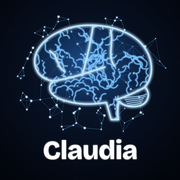
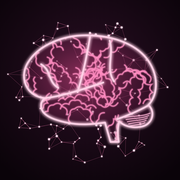
Temporizador de estudio (Pomodoro) e icono de cerebro rosa
Claude-Session: https://claude.ai/code/session_01CUUc1FXT7RVjJewpAbfE9Q

diff --git a/index.html b/index.html
@@ -7,9 +7,9 @@
 <meta name="mobile-web-app-capable" content="yes">
 <meta name="apple-mobile-web-app-status-bar-style" content="black-translucent">
 <meta name="apple-mobile-web-app-title" content="Sinapsis">
-<meta name="theme-color" content="#ECEEF3" media="(prefers-color-scheme: light)">
-<meta name="theme-color" content="#11131A" media="(prefers-color-scheme: dark)">
-<link rel="apple-touch-icon" href="apple-touch-icon.png">
+<meta name="theme-color" content="#F8F2F6" media="(prefers-color-scheme: light)">
+<meta name="theme-color" content="#130F15" media="(prefers-color-scheme: dark)">
+<link rel="apple-touch-icon" href="apple-touch-icon.png?v=2">
 <link rel="icon" type="image/png" href="icon-192.png">
 <link rel="manifest" href="manifest.json">
 <style>:root{color-scheme:light;padding-top:env(safe-area-inset-top,0px);padding-bottom:env(safe-area-inset-bottom,0px)}body{margin:0;font:14px system-ui,sans-serif}img{max-width:100%}[hidden]{display:none!important}
@@ -261,6 +261,21 @@ details summary::-webkit-details-marker{display:none}
 .rate .r1{background:var(--lilac-soft);color:var(--lilac)}
 .rate .r2{background:var(--ok-soft);color:var(--ok)}
 
+/* Temporizador de estudio */
+.seg.three{grid-template-columns:repeat(3,1fr)}
+.pomo{display:flex;flex-direction:column;align-items:center;gap:16px}
+.ring{position:relative;width:min(250px,72vw);aspect-ratio:1;max-width:100%}
+.ring svg{width:100%;height:100%;transform:rotate(-90deg);display:block}
+.ring .tm{position:absolute;inset:0;display:flex;flex-direction:column;align-items:center;justify-content:center;gap:2px;text-align:center;padding:0 30px}
+.ring .tm b{font-family:var(--f-display);font-size:56px;font-weight:800;line-height:1;font-variant-numeric:tabular-nums;letter-spacing:-.03em}
+.ring .tm span{font-size:13px;color:var(--ink-3);font-weight:700;letter-spacing:.04em;text-transform:uppercase}
+.ring .tm small{font-size:13px;color:var(--ink-2);overflow:hidden;text-overflow:ellipsis;white-space:nowrap;max-width:100%}
+.presets{display:flex;gap:8px;flex-wrap:wrap;justify-content:center}
+.pomo .actions{justify-content:center}
+.pomo .btn.big{padding:14px 26px;font-size:16px;border-radius:16px}
+.pomo-mini{display:flex;align-items:center;justify-content:space-between;gap:12px;padding:14px 16px;border-radius:var(--r);background:var(--lilac-soft);border:0;width:100%;text-align:left;color:var(--ink)}
+.pomo-mini b{font-family:var(--f-display);font-size:26px;font-variant-numeric:tabular-nums;color:var(--lilac)}
+
 /* Barra inferior */
 nav.tabs{position:fixed;left:0;right:0;bottom:0;z-index:20;pointer-events:none;
   padding:0 max(12px,env(safe-area-inset-right,0px)) calc(10px + env(safe-area-inset-bottom,0px)) max(12px,env(safe-area-inset-left,0px))}
@@ -358,7 +373,8 @@ const NIVELES = [
   {n:"Operaciones concretas", min:500},
   {n:"Operaciones formales", min:1200}
 ];
-const XP = {sub:5, tema:5, trab:25, exam:40, hab:10, ejer:10, card:2};
+const XP = {sub:5, tema:5, trab:25, exam:40, hab:10, ejer:10, card:2, foco:15};
+const PRESETS = [{id:"p25", foco:25, desc:5, n:"Clásico"},{id:"p50", foco:50, desc:10, n:"Largo"},{id:"p15", foco:15, desc:3, n:"Rápido"}];
 const INTERVALOS = [0,1,3,7,14,30,60,120]; // días hasta el siguiente repaso según la caja
 const ICON = {
   check:'<svg viewBox="0 0 24 24" fill="none" stroke="currentColor" stroke-width="3" stroke-linecap="round" stroke-linejoin="round"><path d="M5 12.5l4.5 4.5L19 7.5"/></svg>',
@@ -411,7 +427,7 @@ function tiposBase(){ return [
   {id:"x2", nombre:"Gimnasio", color:COLORES[1], min:60},
   {id:"x3", nombre:"Meditación", color:COLORES[3], min:10}
 ]; }
-const inicial = () => ({v:1, ejemplo:false, paleta2:true, asignaturas:ASIGNATURAS.map(([nombre,color])=>({id:uid(), nombre, color})), trabajos:[], examenes:[], habitos:[], marcas:{}, log:[], eventos:[], ejercicio:{tipos:tiposBase(), registros:[]}, tarjetas:[], vistos:[], updatedAt:Date.now()});
+const inicial = () => ({v:1, ejemplo:false, paleta2:true, asignaturas:ASIGNATURAS.map(([nombre,color])=>({id:uid(), nombre, color})), trabajos:[], examenes:[], habitos:[], marcas:{}, log:[], eventos:[], ejercicio:{tipos:tiposBase(), registros:[]}, tarjetas:[], estudio:{sesiones:[], activo:null}, vistos:[], updatedAt:Date.now()});
 // Completa estados guardados con versiones anteriores de la app.
 function completar(st){
   if (!st || st.ejemplo) return inicial();
@@ -420,6 +436,7 @@ function completar(st){
   st.ejercicio.tipos = st.ejercicio.tipos || tiposBase();
   st.ejercicio.registros = st.ejercicio.registros || [];
   st.tarjetas = st.tarjetas || [];
+  st.estudio = st.estudio || {sesiones:[], activo:null};
   if (!st.paleta2){
     const mapa = c => COLORES_ANTES[c] || c;
     [st.asignaturas, st.habitos, st.eventos, st.ejercicio.tipos].forEach(arr => arr.forEach(x => x.color = mapa(x.color)));
@@ -433,7 +450,7 @@ const LS_KEY = "sinapsis-estado-v1";
 let state, ref = null, modo = "local", ultimaEscritura = 0, timerGuardar = null;
 try { const raw = localStorage.getItem(LS_KEY); state = raw ? JSON.parse(raw) : inicial(); } catch { state = inicial(); }
 state = completar(state);
-let ui = {tab:"hoy", asig:"todas", armado:null, mes:new Date(new Date().getFullYear(), new Date().getMonth(), 1), dia:iso(new Date()), semana:lunes(new Date()), editTipos:false, uniVista:"entregas", sesion:null};
+let ui = {tab:"hoy", asig:"todas", armado:null, mes:new Date(new Date().getFullYear(), new Date().getMonth(), 1), dia:iso(new Date()), semana:lunes(new Date()), editTipos:false, uniVista:"entregas", sesion:null, pomoAsig:null, pomoPreset:"p25"};
 try { ui.tab = localStorage.getItem("sinapsis-tab") || "hoy"; } catch {}
 
 function guardarLocal(){ try { localStorage.setItem(LS_KEY, JSON.stringify(state)); } catch {} }
@@ -525,6 +542,7 @@ const LOGROS = [
   {id:"maslow", who:"Maslow", n:"Autorrealización", d:"Entrega 5 trabajos", ok:()=>state.trabajos.filter(t=>t.hecho).length>=5},
   {id:"bandura", who:"Bandura", n:"Autoeficacia", d:"Haz ejercicio 3 días en una misma semana", ok:()=>{ const s={}; state.ejercicio.registros.forEach(r=>{ const k=iso(lunes(parse(r.fecha))); (s[k]=s[k]||new Set()).add(r.fecha); }); return Object.values(s).some(x=>x.size>=3); }},
   {id:"baddeley", who:"Baddeley", n:"Memoria de trabajo", d:"Repasa 50 tarjetas", ok:()=>state.log.filter(e=>e.k==="card").length>=50},
+  {id:"posner", who:"Posner", n:"Atención sostenida", d:"Completa 10 sesiones de estudio", ok:()=>state.estudio.sesiones.length>=10},
   {id:"piaget", who:"Piaget", n:"Operaciones formales", d:"Llega al último nivel", ok:()=>nivel().i===3}
 ];
 function revisarLogros(){
@@ -589,6 +607,8 @@ function vistaHoy(){
   }
   h += `<section class="card"><div class="sec-head"><h2>Esta semana</h2><button class="btn ghost" data-a="tab" data-tab="uni">Ver todo</button></div>
     ${semana.length||planes.length ? `<div class="list">${[...semana.map(p=>({f:p.o.fecha, h:itemPendiente(p)})), ...planes.map(v=>({f:v.fecha, h:itemEvento(v)}))].sort((a,b)=>a.f.localeCompare(b.f)).map(x=>x.h).join("")}</div>` : `<div class="empty">Nada en los próximos 7 días.</div>`}</section>`;
+  const act = state.estudio.activo;
+  if (act) h += `<button class="pomo-mini" data-a="irEstudio"><span><span class="muted small" style="font-weight:700;text-transform:uppercase;letter-spacing:.05em">${act.fase==="foco"?(act.pausa!=null?"En pausa":"Estudiando"):"Descanso"}</span><br><span style="font-weight:600">${esc(asig(act.asig).nombre)}</span></span><b id="pomo-mini-t">${mmss(restante())}</b></button>`;
   const nDue = tarjetasHoy().length;
   if (nDue) h += `<div class="due"><div><b>${nDue}</b><br><span>${nDue===1?"tarjeta para repasar hoy":"tarjetas para repasar hoy"}</span></div><button class="btn" data-a="estudiar">Repasar ahora</button></div>`;
   h += `<section class="card"><div class="sec-head"><h2>Hábitos de hoy</h2><span class="muted small">${hechos}/${state.habitos.length}</span></div>
@@ -601,8 +621,9 @@ function vistaHoy(){
 
 function vistaUni(){
   let h = cabecera("Universidad", "Tus asignaturas");
-  h += `<div class="seg" role="tablist"><button class="${ui.uniVista!=="tarjetas"?"on":""}" data-a="uniVista" data-v="entregas" role="tab">Trabajos y exámenes</button><button class="${ui.uniVista==="tarjetas"?"on":""}" data-a="uniVista" data-v="tarjetas" role="tab">Tarjetas</button></div>`;
+  h += `<div class="seg three" role="tablist">${[["entregas","Tareas"],["tarjetas","Tarjetas"],["estudio","Estudio"]].map(([k,l])=>`<button class="${ui.uniVista===k?"on":""}" data-a="uniVista" data-v="${k}" role="tab">${l}</button>`).join("")}</div>`;
   if (ui.uniVista==="tarjetas") return h + vistaTarjetas();
+  if (ui.uniVista==="estudio") return h + vistaEstudio();
   h += `<div class="chips" role="tablist"><button class="chip ${ui.asig==="todas"?"on":""}" data-a="filtro" data-id="todas">Todas</button>
     ${state.asignaturas.map(a=>`<button class="chip ${ui.asig===a.id?"on":""}" data-a="filtro" data-id="${a.id}"><span class="dot" style="background:${a.color}"></span>${esc(a.nombre)}</button>`).join("")}
     <button class="chip" data-a="nuevaAsig">${ICON.plus.replace('<svg','<svg width="14" height="14"')}Asignatura</button></div>`;
@@ -736,6 +757,84 @@ function calificar(v){
 }
 function anotarLogrosFin(){ revisarLogros(); }
 
+
+/* ---------- Temporizador de estudio (Pomodoro) ---------- */
+const mmss = ms => { const t = Math.max(0, Math.ceil(ms/1000)); return `${pad(Math.floor(t/60))}:${pad(t%60)}`; };
+function restante(){ const a = state.estudio.activo; if (!a) return 0; return a.pausa!=null ? a.pausa : a.fin - Date.now(); }
+function vistaEstudio(){
+  const a = state.estudio.activo, E = state.estudio;
+  if (!ui.pomoAsig || !state.asignaturas.some(x=>x.id===ui.pomoAsig)) ui.pomoAsig = (ui.asig!=="todas" && ui.asig) || state.asignaturas[0]?.id || null;
+  const pre = PRESETS.find(p=>p.id===ui.pomoPreset) || PRESETS[0];
+  const total = a ? a.dur*60000 : pre.foco*60000, rem = a ? restante() : total;
+  const C = 2*Math.PI*108, frac = a ? 1 - rem/total : 0;
+  const color = a && a.fase==="descanso" ? "var(--ok)" : "var(--accent)";
+  const etiqueta = !a ? "Listo" : a.fase==="descanso" ? "Descanso" : a.pausa!=null ? "En pausa" : "Concentración";
+  let h = `<section class="card pomo">
+    <div class="ring"><svg viewBox="0 0 240 240" aria-hidden="true"><circle cx="120" cy="120" r="108" fill="none" stroke="var(--line)" stroke-width="12"/>
+      <circle id="pomo-ring" cx="120" cy="120" r="108" fill="none" stroke="${color}" stroke-width="12" stroke-linecap="round" stroke-dasharray="${C.toFixed(1)}" stroke-dashoffset="${(C*(1-frac)).toFixed(1)}"/></svg>
+      <div class="tm"><span id="pomo-lab">${etiqueta}</span><b id="pomo-time">${mmss(rem)}</b><small>${a ? esc(asig(a.asig).nombre) : ""}</small></div></div>`;
+  if (!a){
+    h += `<div class="field" style="width:100%"><label for="f-pomo-asig">¿Qué vas a estudiar?</label><select id="f-pomo-asig" data-a="nada">${optsAsig(ui.pomoAsig)}</select></div>
+      <div class="presets">${PRESETS.map(p=>`<button class="chip ${p.id===pre.id?"on":""}" data-a="preset" data-id="${p.id}">${p.n} · ${p.foco}+${p.desc} min</button>`).join("")}</div>
+      <div class="actions"><button class="btn primary big" data-a="pomoStart" ${state.asignaturas.length?"":"disabled"}>Empezar ${pre.foco} min</button></div>`;
+  } else {
+    h += `<div class="actions">${a.fase==="foco" ? `<button class="btn primary big" data-a="pomoPausa">${a.pausa!=null?"Seguir":"Pausar"}</button>` : ""}
+      <button class="btn big" data-a="pomoStop">${a.fase==="foco"?"Terminar":"Saltar descanso"}</button></div>
+      <p class="muted small" style="margin:0;text-align:center">${a.fase==="foco"?`Después vienen ${a.desc} min de descanso. Puedes cerrar la app: el tiempo sigue contando.`:"Levántate, bebe agua, mira lejos de la pantalla."}</p>`;
+  }
+  h += `</section>`;
+  // Estadísticas
+  const hoyS = hoy(), ini = iso(lunes(new Date()));
+  const sesHoy = E.sesiones.filter(x=>x.fecha===hoyS), sesSem = E.sesiones.filter(x=>x.fecha>=ini);
+  const sum = arr => arr.reduce((t,x)=>t+x.min,0);
+  const fmtH = m => m>=60 ? `${Math.floor(m/60)} h ${m%60?pad(m%60):""}`.trim() : `${m} min`;
+  const porAsig = state.asignaturas.map(x=>({a:x, m:sum(sesSem.filter(s=>s.asig===x.id))})).filter(x=>x.m>0).sort((p,q)=>q.m-p.m);
+  const max = Math.max(1,...porAsig.map(x=>x.m));
+  h += `<section class="card"><h2>Tu tiempo de estudio</h2>
+    <div class="stats"><div class="stat"><b>${fmtH(sum(sesHoy))}</b><span>hoy</span></div><div class="stat"><b>${fmtH(sum(sesSem))}</b><span>esta semana</span></div><div class="stat"><b>${E.sesiones.length}</b><span>sesiones</span></div></div>
+    ${porAsig.length ? `<div class="bytype">${porAsig.map(x=>`<div class="bt"><span style="overflow:hidden;text-overflow:ellipsis;white-space:nowrap">${esc(x.a.nombre)}</span><span class="trk"><i style="width:${x.m/max*100}%;background:${x.a.color}"></i></span><span class="v">${fmtH(x.m)}</span></div>`).join("")}</div>`
+      : `<div class="empty">Cuando termines tu primera sesión, aquí verás cuánto le dedicas a cada asignatura esta semana.</div>`}</section>`;
+  return h;
+}
+function pomoStart(){
+  const sel = document.getElementById("f-pomo-asig"); if (sel) ui.pomoAsig = sel.value;
+  const pre = PRESETS.find(p=>p.id===ui.pomoPreset) || PRESETS[0];
+  state.estudio.activo = {asig:ui.pomoAsig, fase:"foco", dur:pre.foco, desc:pre.desc, inicio:Date.now(), fin:Date.now()+pre.foco*60000, pausa:null};
+  desbloquearAudio(); commit();
+}
+function registrarSesion(min, cuando){
+  const a = state.estudio.activo; if (!a || min < 1) return;
+  const ses = {id:uid(), asig:a.asig, min:Math.round(min), fecha:iso(new Date(cuando||Date.now()))};
+  state.estudio.sesiones.push(ses); anotar("foco", ses.id, ses.fecha);
+}
+function finFase(){
+  const a = state.estudio.activo; if (!a) return;
+  const ahora = Date.now();
+  if (a.fase==="foco"){
+    registrarSesion(a.dur, a.fin);
+    const finDesc = a.fin + a.desc*60000;
+    state.estudio.activo = ahora < finDesc ? {...a, fase:"descanso", dur:a.desc, fin:finDesc, pausa:null} : null;
+    pitido(); toast(`${a.dur} minutos de estudio`, ahora < finDesc ? `Ahora ${a.desc} min de descanso. ${MENSAJES_LUIS[Math.floor(Math.random()*MENSAJES_LUIS.length)]}` : "Sesión guardada.");
+  } else { state.estudio.activo = null; pitido(); toast("Descanso terminado", "¿Otra ronda?"); }
+  commit();
+}
+let audioCtx = null;
+function desbloquearAudio(){ try { audioCtx = audioCtx || new (window.AudioContext||window.webkitAudioContext)(); audioCtx.resume(); } catch {} }
+function pitido(){ try { if (!audioCtx || document.hidden) return; [0,0.25,0.5].forEach(t=>{ const o = audioCtx.createOscillator(), g = audioCtx.createGain();
+  o.frequency.value = 880; o.connect(g); g.connect(audioCtx.destination); g.gain.setValueAtTime(.0001, audioCtx.currentTime+t);
+  g.gain.exponentialRampToValueAtTime(.25, audioCtx.currentTime+t+.02); g.gain.exponentialRampToValueAtTime(.0001, audioCtx.currentTime+t+.2);
+  o.start(audioCtx.currentTime+t); o.stop(audioCtx.currentTime+t+.22); }); } catch {} }
+setInterval(() => {
+  const a = state.estudio && state.estudio.activo; if (!a || a.pausa!=null) return;
+  const rem = a.fin - Date.now();
+  if (rem <= 0) return finFase();
+  const t = document.getElementById("pomo-time"); if (t) t.textContent = mmss(rem);
+  const r = document.getElementById("pomo-ring");
+  if (r){ const C = 2*Math.PI*108; r.setAttribute("stroke-dashoffset", (C*(rem/(a.dur*60000))).toFixed(1)); }
+  const m = document.getElementById("pomo-mini-t"); if (m) m.textContent = mmss(rem);
+}, 1000);
+document.addEventListener("visibilitychange", () => { if (!document.hidden && state.estudio?.activo && state.estudio.activo.pausa==null && state.estudio.activo.fin <= Date.now()) finFase(); });
+
 /* ---------- Calendario ---------- */
 const tipoEj = id => state.ejercicio.tipos.find(t=>t.id===id) || {nombre:"Actividad", color:"#858B9B", min:30};
 function porDia(){
@@ -851,7 +950,7 @@ function dibujarRed(){
   cv.width = r.width*dpr; cv.height = r.height*dpr;
   const ctx = cv.getContext("2d"); ctx.scale(dpr,dpr);
   const W = r.width, H = r.height, css = getComputedStyle(document.documentElement);
-  const colK = {card:css.getPropertyValue("--lilac").trim(), ejer:"#3BA4E8", hab:css.getPropertyValue("--flame").trim(), sub:css.getPropertyValue("--ok").trim(), tema:css.getPropertyValue("--ok").trim(), trab:css.getPropertyValue("--accent").trim(), exam:css.getPropertyValue("--accent").trim()};
+  const colK = {foco:css.getPropertyValue("--accent").trim(), card:css.getPropertyValue("--lilac").trim(), ejer:"#3BA4E8", hab:css.getPropertyValue("--flame").trim(), sub:css.getPropertyValue("--ok").trim(), tema:css.getPropertyValue("--ok").trim(), trab:css.getPropertyValue("--accent").trim(), exam:css.getPropertyValue("--accent").trim()};
   const bgInk = css.getPropertyValue("--hero-ink").trim();
   let seed = 7; const rnd = () => (seed = (seed*16807)%2147483647)/2147483647;
   const ev = state.log.slice(-180);
@@ -1035,6 +1134,13 @@ document.addEventListener("click", ev => {
       document.body.appendChild(a); a.click(); a.remove(); setTimeout(()=>URL.revokeObjectURL(a.href), 4000);
       toast("Copia descargada", "Guárdala en Archivos o iCloud Drive."); break; }
     case "uniVista": ui.uniVista = el.dataset.v; render(); break;
+    case "preset": { const sel = document.getElementById("f-pomo-asig"); if (sel) ui.pomoAsig = sel.value; ui.pomoPreset = id; render(); break; }
+    case "pomoStart": pomoStart(); break;
+    case "pomoPausa": { const a = state.estudio.activo; if (a.pausa!=null){ a.fin = Date.now()+a.pausa; a.pausa = null; } else { a.pausa = a.fin-Date.now(); } commit(); break; }
+    case "pomoStop": { const a = state.estudio.activo;
+      if (a.fase==="foco"){ const hecho = (a.dur*60000 - restante())/60000; registrarSesion(hecho); if (hecho>=1) toast(`${Math.round(hecho)} min guardados`); }
+      state.estudio.activo = null; commit(); break; }
+    case "irEstudio": ui.tab = "uni"; ui.uniVista = "estudio"; try{localStorage.setItem("sinapsis-tab",ui.tab);}catch{} render(); scrollTo(0,0); break;
     case "nuevaTarjeta": formTarjeta(); break;
     case "editTarjeta": formTarjeta(id); break;
     case "estudiar": empezarEstudio(!!el.dataset.todo); break;
